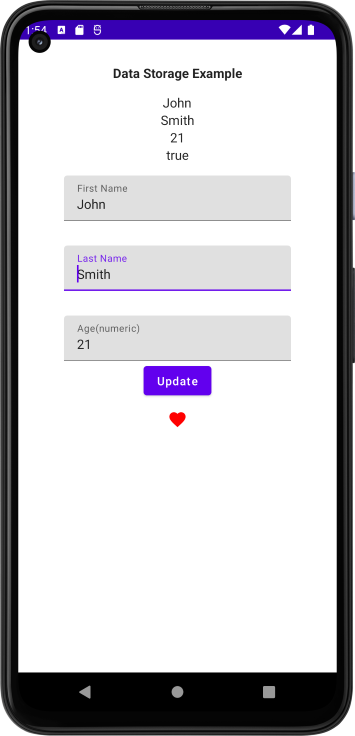
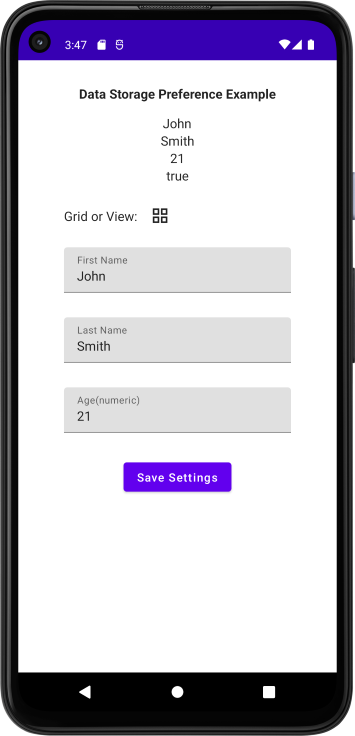
Initial Commit

diff --git a/app/src/main/java/com/lixoten/datastorepreferences/MainActivity.kt b/app/src/main/java/com/lixoten/datastorepreferences/MainActivity.kt
@@ -5,18 +5,14 @@ import android.util.Log
 import androidx.activity.ComponentActivity
 import androidx.activity.compose.setContent
 import androidx.compose.foundation.clickable
-import androidx.compose.foundation.layout.Column
-import androidx.compose.foundation.layout.Spacer
-import androidx.compose.foundation.layout.fillMaxSize
-import androidx.compose.foundation.layout.height
+import androidx.compose.foundation.layout.*
 import androidx.compose.material.*
 import androidx.compose.material.icons.Icons
-import androidx.compose.material.icons.filled.Favorite
+import androidx.compose.material.icons.filled.*
 import androidx.compose.runtime.*
 import androidx.compose.ui.Alignment
 import androidx.compose.ui.ExperimentalComposeUiApi
 import androidx.compose.ui.Modifier
-import androidx.compose.ui.graphics.Color
 import androidx.compose.ui.platform.LocalContext
 import androidx.compose.ui.platform.LocalSoftwareKeyboardController
 import androidx.compose.ui.text.font.FontWeight
@@ -56,9 +52,7 @@ private fun Main() {
     // Create an instance of the UserPreferencesRepository
     val userPreferencesRepository by lazy { UserPreferencesRepository(context) }
 
-    val userPreferences by userPreferencesRepository.userPreferencesFlow.collectAsState(initial = UserPreferences() )
-    val scope = rememberCoroutineScope()
-
+    val userPreferences by userPreferencesRepository.userPreferencesFlow.collectAsState(initial = UserPreferences())
 
     // This is a String
     var firstName by remember {
@@ -96,11 +90,11 @@ private fun Main() {
 
     Column(
         modifier = Modifier.clickable { keyboardController?.hide() },
-        horizontalAlignment = Alignment.CenterHorizontally
+        horizontalAlignment = Alignment.CenterHorizontally,
     ) {
         Spacer(modifier = Modifier.height(30.dp))
 
-        Text(text = "Data Storage Example", fontWeight = FontWeight.Bold)
+        Text(text = "Data Storage Preference Example", fontWeight = FontWeight.Bold)
 
         Spacer(modifier = Modifier.height(15.dp))
 
@@ -111,27 +105,52 @@ private fun Main() {
 
         Spacer(modifier = Modifier.height(15.dp))
 
-        TextField(
-            value = firstName,
-            onValueChange = { firstName = it },
-            label = { Text(text = "First Name")}
-        )
+        Column(horizontalAlignment = Alignment.Start) {
+            Row(verticalAlignment = Alignment.CenterVertically) {
+                Text(text = "Grid or View: ")
+                IconButton(
+                    onClick = {
+                        toggleIcon = !toggleIcon
+//                        scope.launch {
+//                            userPreferencesRepository.updateUserPreferencesIcon(
+//                                toggleIcon
+//                            )
+//                        }
+                    }
+                ) {
+                    Icon(
+                        imageVector = if (toggleIcon) Icons.Default.GridView else Icons.Default.ViewList,
+                        contentDescription = null
+                    )
+                }
 
+            }
+
+            Spacer(modifier = Modifier.height(15.dp))
+
+            TextField(
+                value = firstName,
+                onValueChange = { firstName = it },
+                label = { Text(text = "First Name") }
+            )
+
+            Spacer(modifier = Modifier.height(30.dp))
+
+            TextField(
+                value = lastName,
+                onValueChange = { lastName = it },
+                label = { Text(text = "Last Name") }
+            )
+
+            Spacer(modifier = Modifier.height(30.dp))
+
+            TextField(
+                value = age,
+                onValueChange = { age = it },
+                label = { Text(text = "Age(numeric)") }
+            )
+        }
         Spacer(modifier = Modifier.height(30.dp))
-
-        TextField(
-            value = lastName,
-            onValueChange = { lastName = it },
-            label = { Text(text = "Last Name")}
-        )
-
-        Spacer(modifier = Modifier.height(30.dp))
-
-        TextField(
-            value = age,
-            onValueChange = { age = it },
-            label = { Text(text = "Age(numeric)")}
-        )
 
         Button(
             onClick = {
@@ -140,31 +159,14 @@ private fun Main() {
                         firstName,
                         lastName.text,
                         age.text.toInt(),
-                        //toggleIcon,
                     )
-                }
-            }
-        ) {
-            Text(text = "Update")
-        }
-
-        IconButton(
-            onClick = {
-                toggleIcon = !toggleIcon
-                scope.launch {
-                    //userPreferencesRepository.saveLayoutPreference(isLinearLayout)
                     userPreferencesRepository.updateUserPreferencesIcon(
                         toggleIcon
                     )
                 }
             }
         ) {
-            Icon(
-                imageVector = Icons.Default.Favorite,
-                tint = if (toggleIcon) Color.Red else Color.LightGray,
-                contentDescription = null
-            )
-
+            Text(text = "Save Settings")
         }
     }
 }

diff --git a/app/src/main/java/com/lixoten/datastorepreferences/data/UserPreferencesRepository.kt b/app/src/main/java/com/lixoten/datastorepreferences/data/UserPreferencesRepository.kt
@@ -41,16 +41,15 @@ class UserPreferencesRepository(private val context: Context) {
         firstName: String,
         lastName: String,
         age: Int,
-        //toggleIcon: Boolean,
     ) {
         dataStore.edit { preferences ->
             preferences[FIRST_NAME] = firstName
             preferences[LAST_NAME] = lastName
             preferences[AGE] = age
-            //preferences[TOGGLE_ICON] = toggleIcon
         }
     }
 
+    // Wanted ot to be separate... playing around
     // Update the user preferences
     suspend fun updateUserPreferencesIcon(
         toggleIcon: Boolean,

diff --git a/README.md b/README.md
@@ -3,11 +3,14 @@
  
 ## Just an app for me to learn DataStore Preferences concepts
 
-- Updating the 3 Text Fields and Saving
-  - updates the preferences for them
-- Clicking Favorite Icon 
-  - will update it preference
-  - and reset all 3 text fields
+- Note: We are not using a viewmodel yet
+- Display Screen
+  - Data is initialized in viewModel from saved preferences
+  - Displays 3 Text Fields
+  - Layout Choice Icon(toggles)
+  - Save Settings Button
+- on Save Settings Button Click
+  - we update the 3 textfield and layout choice to preferences
 
 <p style=float:left">
   <img src="screenshot_01.png" width="250" />
